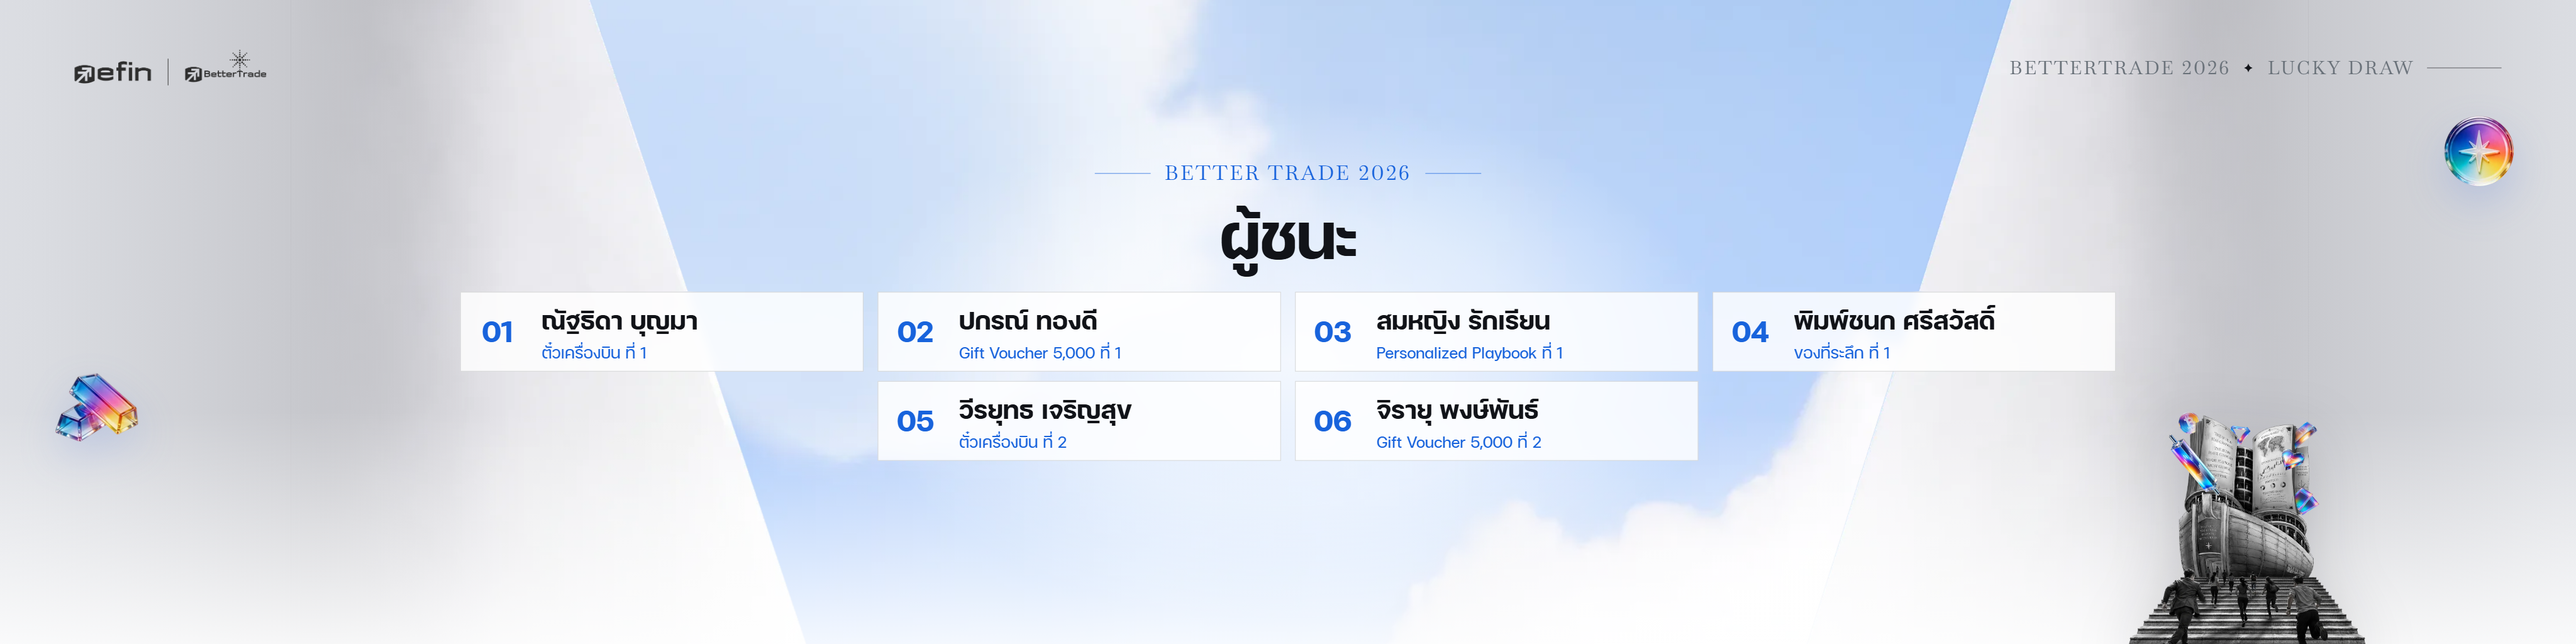
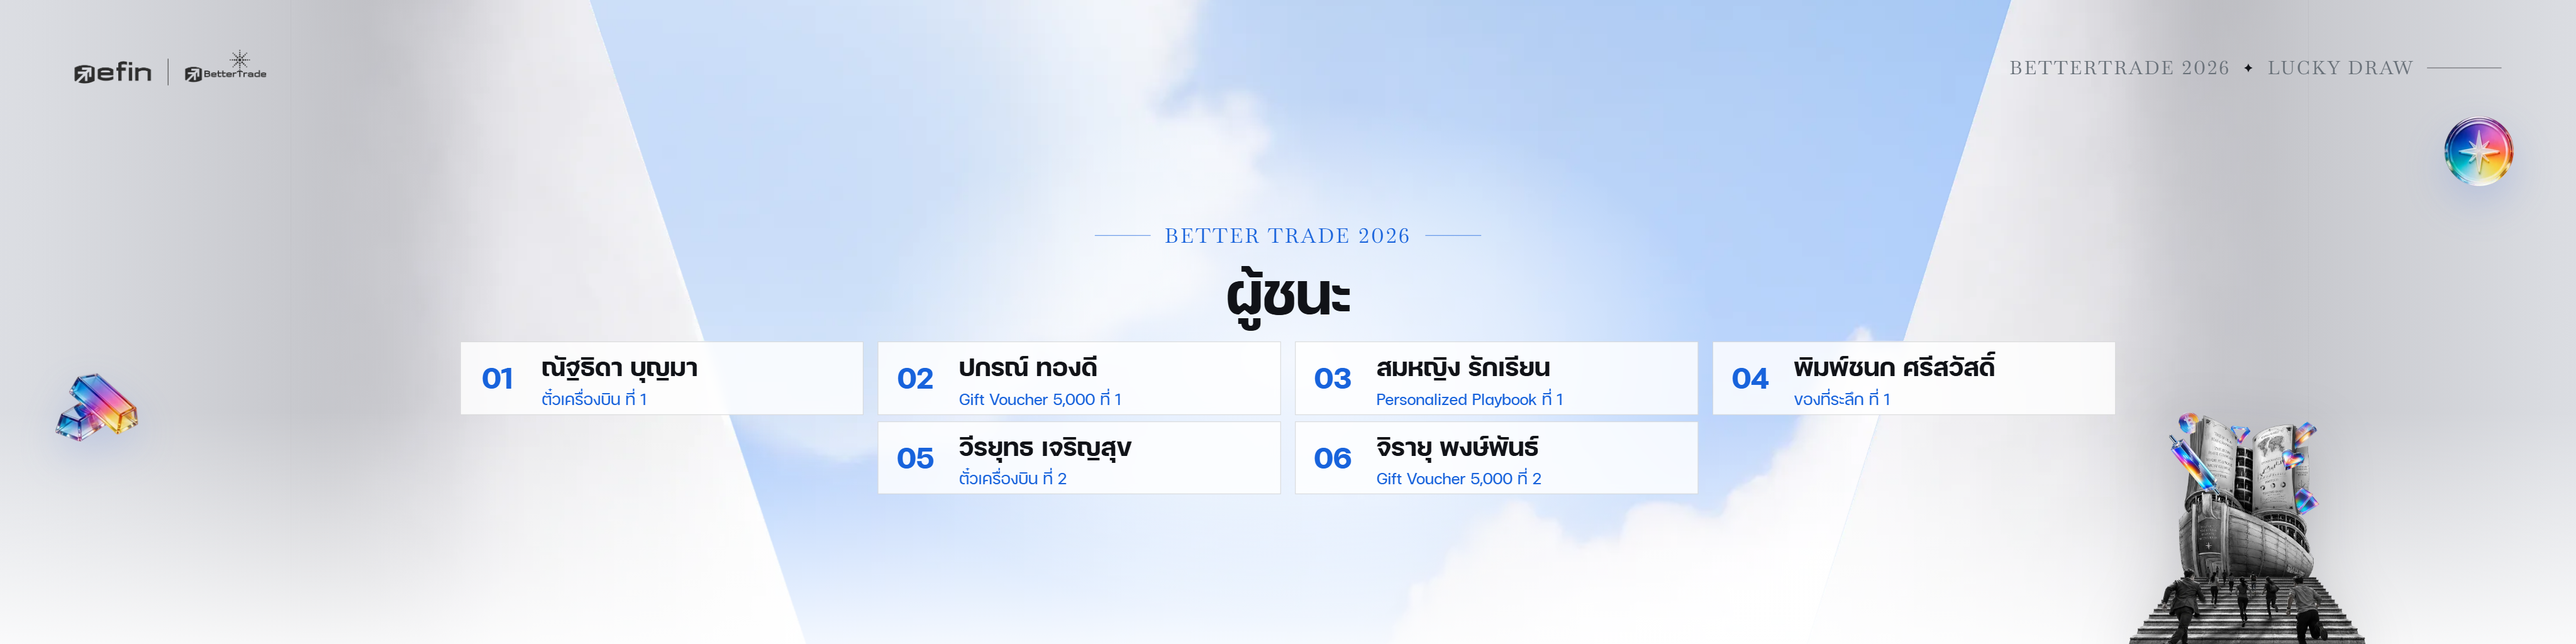
Centre the winners board in the free band, compact the grid
- Board block is centred between the logo row and the ship's top (or the bottom margin
  when the grid is not over the ship) instead of being anchored to the top
- Title 100px, tile padding 6px, row gap 8px; fonts unchanged
- 12 winners on Mini Stage: gap under the logo row 14px -> 47px, clearance above the ship 11px -> 63px
- Regenerate previews

diff --git a/show-screen.html b/show-screen.html
@@ -168,23 +168,23 @@
 
   /* board */
   /* the ship keeps one size and place everywhere, so the board is compact and top-anchored: its grid ends above the ship's top (fitBoard checks it) */
-  .scene.board{justify-content:flex-start;padding-top:124px}
-  .board h2{font-size:110px;margin:6px 0 14px}
+  /* the block is centred in the free band between the logo row and the ship (padding set by fitBoard) */
+  .scene.board{justify-content:center;padding:118px 0 24px}
+  .board h2{font-size:100px;margin:4px 0 10px}
   /* 3 columns x up to 4 rows (12 winners); names and prizes are sized for reading from far away */
-  .grid{display:flex;flex-wrap:wrap;justify-content:center;gap:12px 18px;max-width:1596px;transform-origin:top center}
-  .tile{width:520px;display:flex;gap:16px;align-items:center;text-align:left;padding:10px 12px;background:rgba(255,255,255,.82);border:1px solid var(--line);backdrop-filter:blur(6px)}
+  .grid{display:flex;flex-wrap:wrap;justify-content:center;gap:8px 18px;max-width:1596px;transform-origin:top center}
+  .tile{width:520px;display:flex;gap:16px;align-items:center;text-align:left;padding:6px 12px;background:rgba(255,255,255,.82);border:1px solid var(--line);backdrop-filter:blur(6px)}
   .tile img{width:56px;aspect-ratio:1418/1985;border-radius:8px;flex:none;object-fit:cover}
   .tile > div{min-width:0;flex:1}
   .tile b{display:block;font-size:38px;font-weight:600;line-height:1.2;white-space:nowrap;overflow:hidden;text-overflow:ellipsis}
   .tile small{display:block;font-size:28px;font-weight:500;color:var(--blue-ink);margin-top:0;white-space:nowrap;overflow:hidden;text-overflow:ellipsis}
   /* Main Stage: the board sits centred in the content zone, 4 columns x 3 rows (wider than the 1920 core, overflowing it evenly) */
-  body.screen-main .scene.board{justify-content:center;padding:0 0 30px}
   body.screen-main .grid{width:2134px;max-width:none}
   body.screen-main .groups{width:2134px}
   .board .empty{font-size:46px;font-weight:700;color:var(--ink-2)}
   /* B: same grid, a big order number instead of the character card */
   .tile .rank{flex:none;width:80px;text-align:center;font-size:52px;font-weight:600;line-height:1;color:var(--blue-ink)}
-  .grid.ranked .tile{padding:10px 18px 10px 8px}
+  .grid.ranked .tile{padding:6px 18px 6px 8px}
   .grid.ranked .tile b{font-size:44px;font-weight:700}
   /* C: one glass column per prize, winners listed under the prize name */
   .groups{display:flex;gap:18px;justify-content:center;align-items:flex-start;width:1596px}
@@ -505,10 +505,14 @@ function showReveal(st, instant){
 function fitBoard(){
   const grid = $("#grid"), ship = document.querySelector(".ship");
   grid.style.transform = "";
-  const top = grid.offsetTop, h = grid.offsetHeight;
   const g = grid.getBoundingClientRect(), sh = ship.getBoundingClientRect();
   const overShip = g.left < sh.right && g.right > sh.left;
-  const limit = overShip ? stage.clientHeight - ship.offsetHeight - 30 : stage.clientHeight - 24;
+  const scene = grid.closest(".scene");
+  // free band: below the logo row, down to the ship's top (only where the board is over the ship) or the screen's bottom margin
+  const bandBottom = overShip ? stage.clientHeight - ship.offsetHeight - 24 : stage.clientHeight - 24;
+  scene.style.padding = `118px 0 ${stage.clientHeight - bandBottom}px`;
+  const top = grid.offsetTop, h = grid.offsetHeight;
+  const limit = bandBottom - 6;
   if(top + h > limit) grid.style.transform = `scale(${Math.max(.5, (limit - top) / h).toFixed(3)})`;
 }
 
